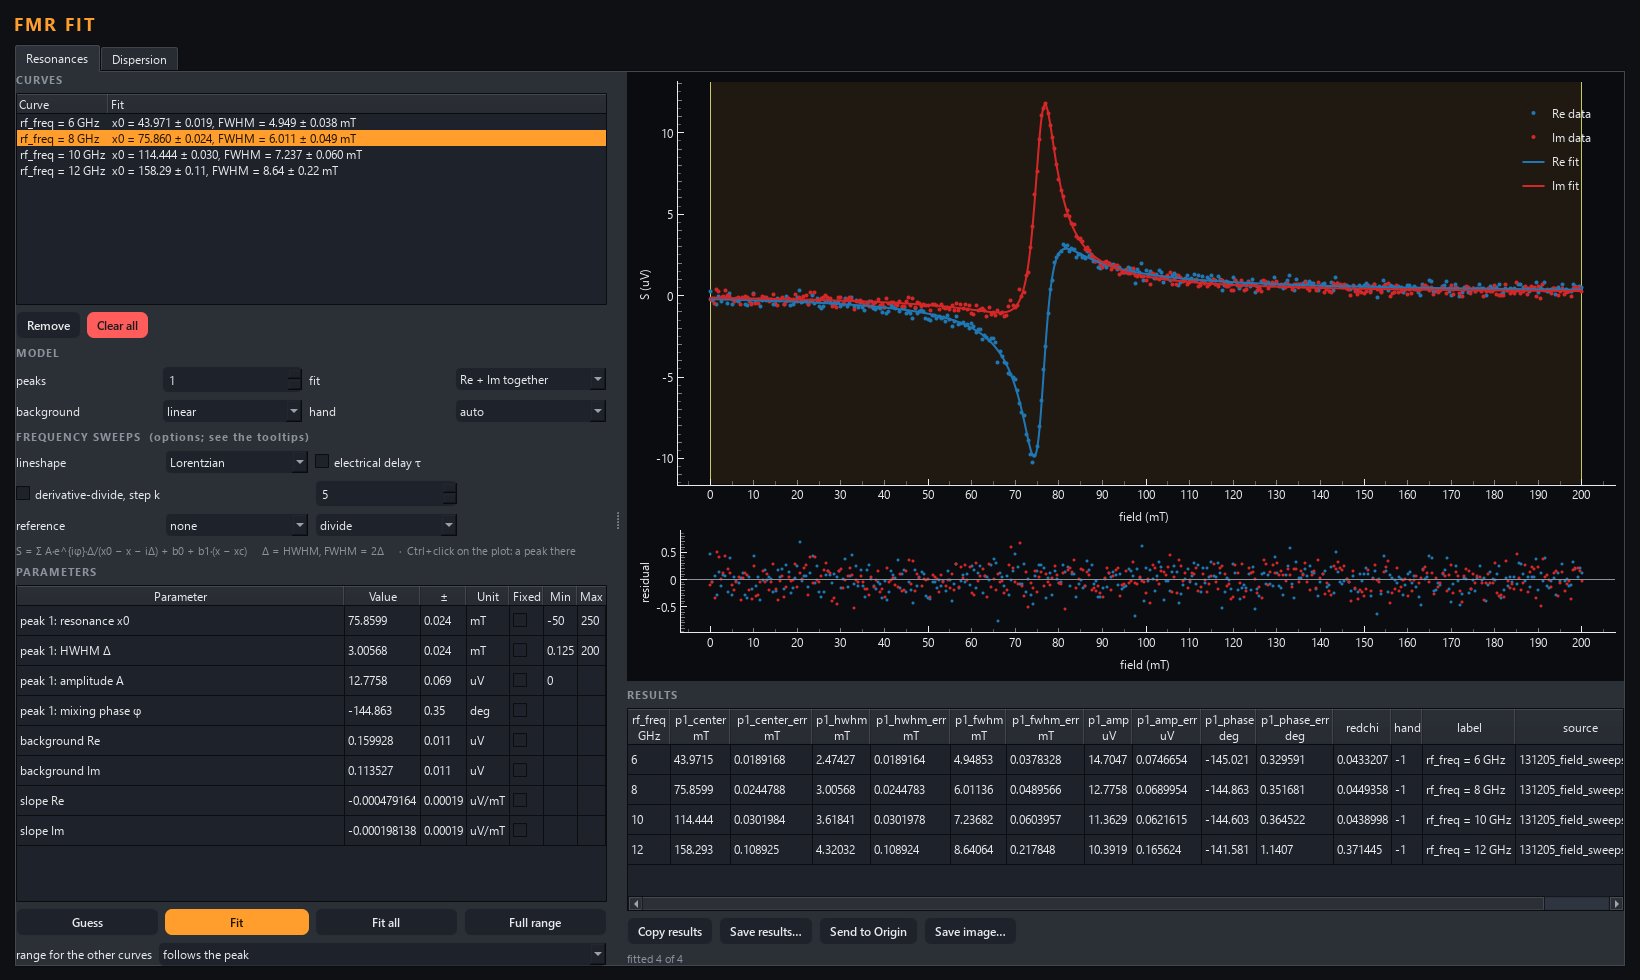
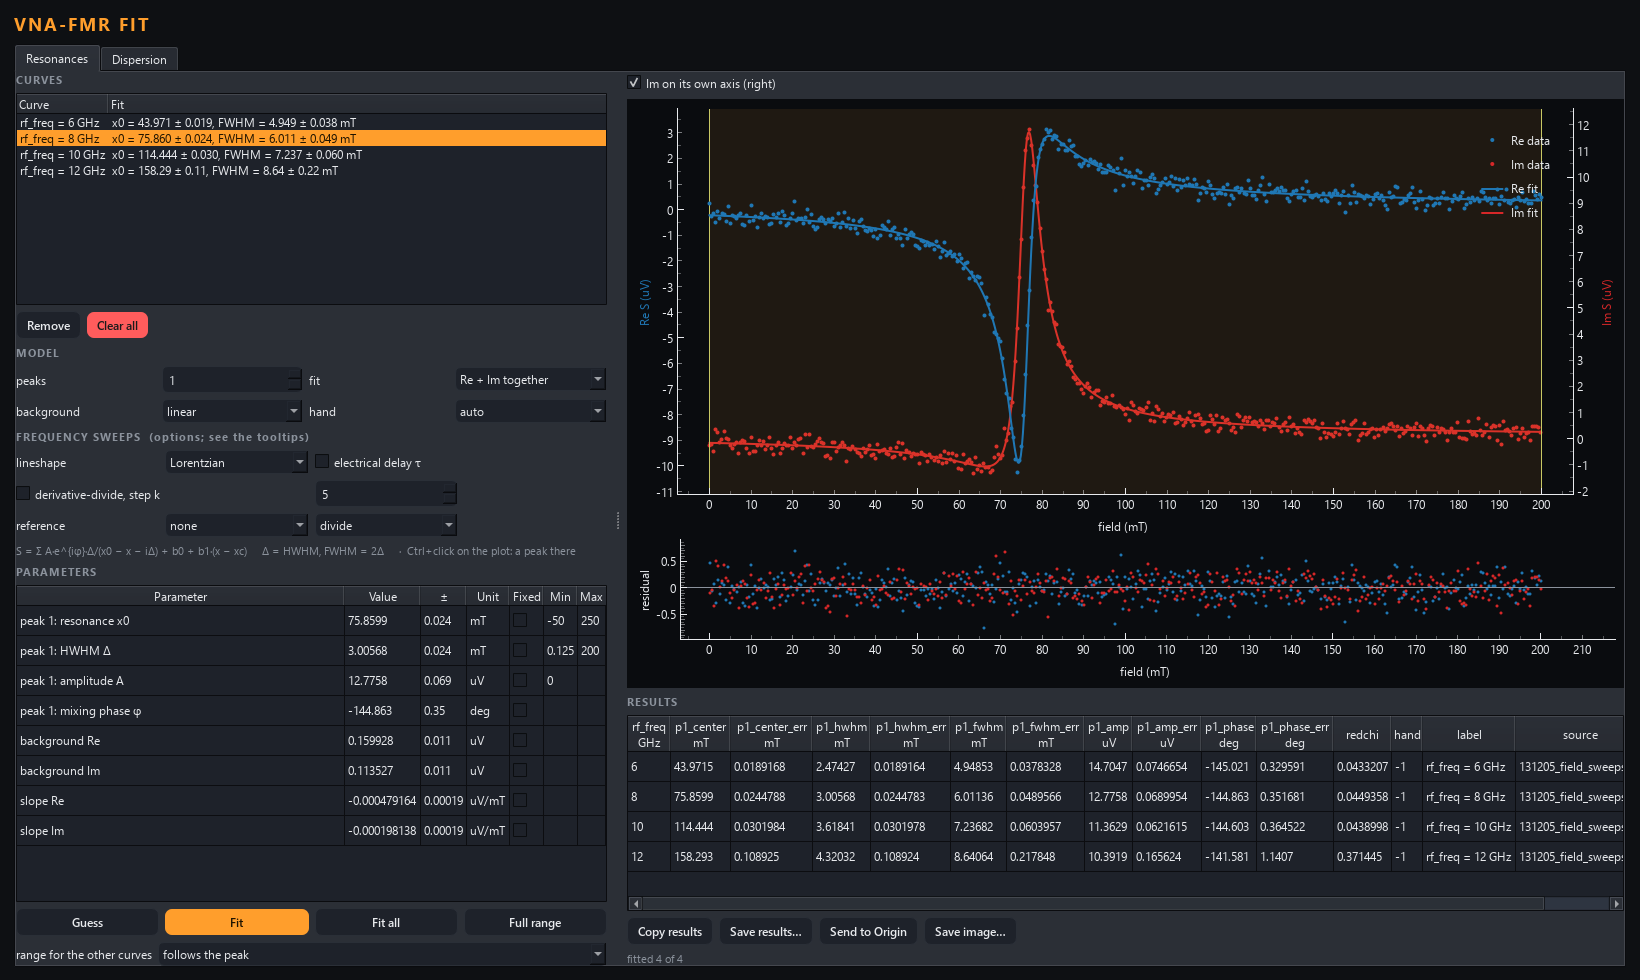
VNA-FMR fit: Im on its own axis (right)
A VNA's Re sits near 1 and Im near 0: on one shared scale the resonance
was a few pixels. Re on the left axis, Im on the right, each scaled to
itself (a second ViewBox, x linked, drawn behind the main one so the range
band, Ctrl+click and zoom keep working). A checkbox, on by default; one
axis for real data. Screenshots re-rendered.

diff --git a/AnalysisModules/vna-fmr-fit/src/fmr_fit/app.py b/AnalysisModules/vna-fmr-fit/src/fmr_fit/app.py
@@ -296,16 +296,34 @@ class FitWindow(QtWidgets.QWidget):
         rv = QtWidgets.QVBoxLayout(right)
         rv.setContentsMargins(8, 0, 0, 0)
         rv.setSpacing(6)
+        self.two_axes = QtWidgets.QCheckBox("Im on its own axis (right)")
+        self.two_axes.setChecked(True)
+        self.two_axes.setToolTip(
+            "Re on the left axis, Im on the right, each scaled to itself: a VNA's Re\n"
+            "sits near 1 and Im near 0, and on one shared scale the resonance is a few\n"
+            "pixels. Drag or scroll on the right axis to scale Im alone.")
+        self.two_axes.toggled.connect(lambda *_: self._redraw())
+        rv.addWidget(self.two_axes)
         self.glw = pg.GraphicsLayoutWidget()
         self.plot = self.glw.addPlot(row=0, col=0)
         self.legend = self.plot.addLegend(offset=(-10, 10))
+        # the right axis (asked for 2026-10-08): a second view, x linked, drawn
+        # BEHIND the main one so the range band, Ctrl+click and zoom keep working
+        self.vb2 = pg.ViewBox()
+        self.vb2.setZValue(-100)
+        self.plot.scene().addItem(self.vb2)
+        self.plot.getAxis("right").linkToView(self.vb2)
+        self.vb2.setXLink(self.plot)
+        self.plot.vb.sigResized.connect(
+            lambda *_: self.vb2.setGeometry(self.plot.vb.sceneBoundingRect()))
         self.rplot = self.glw.addPlot(row=1, col=0)
         self.rplot.setXLink(self.plot)
         self.rplot.setLabel("left", "residual")
         self.glw.ci.layout.setRowStretchFactor(0, 3)
         self.glw.ci.layout.setRowStretchFactor(1, 1)
-        _plain_axes(self.plot)
+        _plain_axes(self.plot, self.plot.getAxis("right"))
         _plain_axes(self.rplot)
+        self.plot.hideAxis("right")
         for plot in (self.plot, self.rplot):
             # long sweeps: draw what the screen can show, not every point
             plot.setClipToView(True)            # only what is in view is drawn
@@ -938,9 +956,15 @@ class FitWindow(QtWidgets.QWidget):
         def frame(x, v):
             return v * un(x) if un is not None else v
 
+        # Re left, Im right (each scaled to itself) -- complex data, box ticked
+        two = self.two_axes.isChecked() and len(parts) == 2
+        self.two_axes.setEnabled(len(parts) == 2)
+        view = {"Re": self.plot, "Im": self.vb2 if two else self.plot}
+
         for name, fn, col in parts:
-            self._add(self.plot, _points(shown.x, fn(frame(shown.x, shown.y)), col, 4,
-                                         name=f"{name} data"))
+            self._add(view.get(name, self.plot),
+                      _points(shown.x, fn(frame(shown.x, shown.y)), col, 4,
+                              name=f"{name} data"))
         model_vals = None
         xs = None
         if e.result is not None and not show_start:
@@ -966,18 +990,34 @@ class FitWindow(QtWidgets.QWidget):
         if model_vals is not None:
             style = QtCore.Qt.SolidLine if label == "fit" else QtCore.Qt.DashLine
             for name, fn, col in parts:
-                self._add(self.plot, pg.PlotDataItem(
+                self._add(view.get(name, self.plot), pg.PlotDataItem(
                     xs, fn(model_vals), pen=pg.mkPen(C["accent"] if len(parts) == 1 else col,
                                                      width=2, style=style),
                     name=f"{name} {label}"))
         self.plot.setLabel("bottom", axis_title(c.x_name, c.x_unit))
-        self.plot.setLabel("left", M.y_title(c, e.setup, unwound=un is not None))
+        title = M.y_title(c, e.setup, unwound=un is not None)
+        if two:
+            self.plot.showAxis("right")
+            self.plot.setLabel("left", f"Re {title}", color=TAB10[0])
+            self.plot.setLabel("right", f"Im {title}", color=TAB10[3])
+            self.vb2.setGeometry(self.plot.vb.sceneBoundingRect())
+            self.vb2.enableAutoRange(axis=pg.ViewBox.YAxis)
+        else:
+            self.plot.hideAxis("right")
+            self.plot.setLabel("left", title, color=C["text"])
         self.rplot.setLabel("bottom", axis_title(c.x_name, c.x_unit))
         self._thin()
 
     def _add(self, plot, item):
         plot.addItem(item)
         self._items.append((plot, item))
+        if plot is self.vb2:
+            # a bare ViewBox: no legend entry and no clip-to-view of its own
+            name = item.opts.get("name") if hasattr(item, "opts") else None
+            if name:
+                self.legend.addItem(item, name)
+            if hasattr(item, "setClipToView"):
+                item.setClipToView(True)
 
     def _thin(self, *_):
         """Every k-th symbol when more than MAX_SYMBOLS would be in view."""

diff --git a/AnalysisModules/vna-fmr-fit/tests/test_fmr_two_axes.py b/AnalysisModules/vna-fmr-fit/tests/test_fmr_two_axes.py
@@ -1,0 +1,70 @@
+"""Re on the left axis, Im on the right, each scaled to itself (asked for
+2026-10-08: a VNA's Re sits near 1 and Im near 0; on one shared scale the
+resonance was a few pixels). Simulated sweep, known numbers."""
+
+import os
+
+import numpy as np
+import pytest
+
+pytest.importorskip("lmfit")
+pytest.importorskip("PySide6")
+os.environ.setdefault("QT_QPA_PLATFORM", "offscreen")
+
+from PySide6 import QtWidgets  # noqa: E402
+
+from aaltoview import export as E  # noqa: E402
+
+
+def _curve(complex_=True):
+    f = np.linspace(3.6, 5.6, 2001)
+    z = 1 + 0.05 * np.exp(-1.3j) * 0.01 / (4.7 - f - 0.01j)
+    return E.Curve(x=f, y=np.abs(z), label="phi_H = 0 deg", x_name="rf_freq", x_unit="GHz",
+                   y_name="|s21|", y_unit="", selection=E.Selection("s21", x="rf_freq"),
+                   z=z if complex_ else None, held={"field": (100.0, "mT")})
+
+
+@pytest.fixture
+def win():
+    from aaltoview.apps import viewer as VW
+    from fmr_fit.app import FitWindow
+    VW.configure_pyqtgraph()
+    app = QtWidgets.QApplication.instance() or QtWidgets.QApplication([])
+    w = FitWindow()
+    w.resize(1400, 900)
+    w.show()
+    app.processEvents()
+    yield w
+    w.close()
+
+
+def _ranges(win):
+    QtWidgets.QApplication.processEvents()
+    return win.plot.vb.viewRange()[1], win.vb2.viewRange()[1]
+
+
+def test_im_gets_its_own_axis_and_scale(win):
+    win.add_curves([_curve()])
+    win.fit()
+    on_right = [it for plot, it in win._items if plot is win.vb2]
+    assert len(on_right) == 2                       # Im data + Im fit
+    assert win.plot.getAxis("right").isVisible()
+    (re_lo, re_hi), (im_lo, im_hi) = _ranges(win)
+    assert re_lo < 1.0 < re_hi and re_hi - re_lo < 0.2      # Re about 1, its own scale
+    assert im_hi - im_lo < 0.2 and abs((im_lo + im_hi) / 2) < 0.05   # Im about 0
+    names = [lab.text for _, lab in win.legend.items]
+    assert "Im data" in names and "Im fit" in names
+    # the fit is not changed by the drawing: the centre put in comes out
+    assert win.current().result.values["p1_center"] == pytest.approx(4.7, abs=1e-4)
+
+
+def test_one_axis_when_unticked_or_real(win):
+    win.add_curves([_curve()])
+    win.two_axes.setChecked(False)
+    assert not [it for plot, it in win._items if plot is win.vb2]
+    assert not win.plot.getAxis("right").isVisible()
+    win.add_curves([_curve(complex_=False)])
+    win.curve_list.setCurrentItem(win.curve_list.topLevelItem(1))
+    win.two_axes.setChecked(True)
+    assert not [it for plot, it in win._items if plot is win.vb2]   # one part: one axis
+    assert not win.two_axes.isEnabled()
